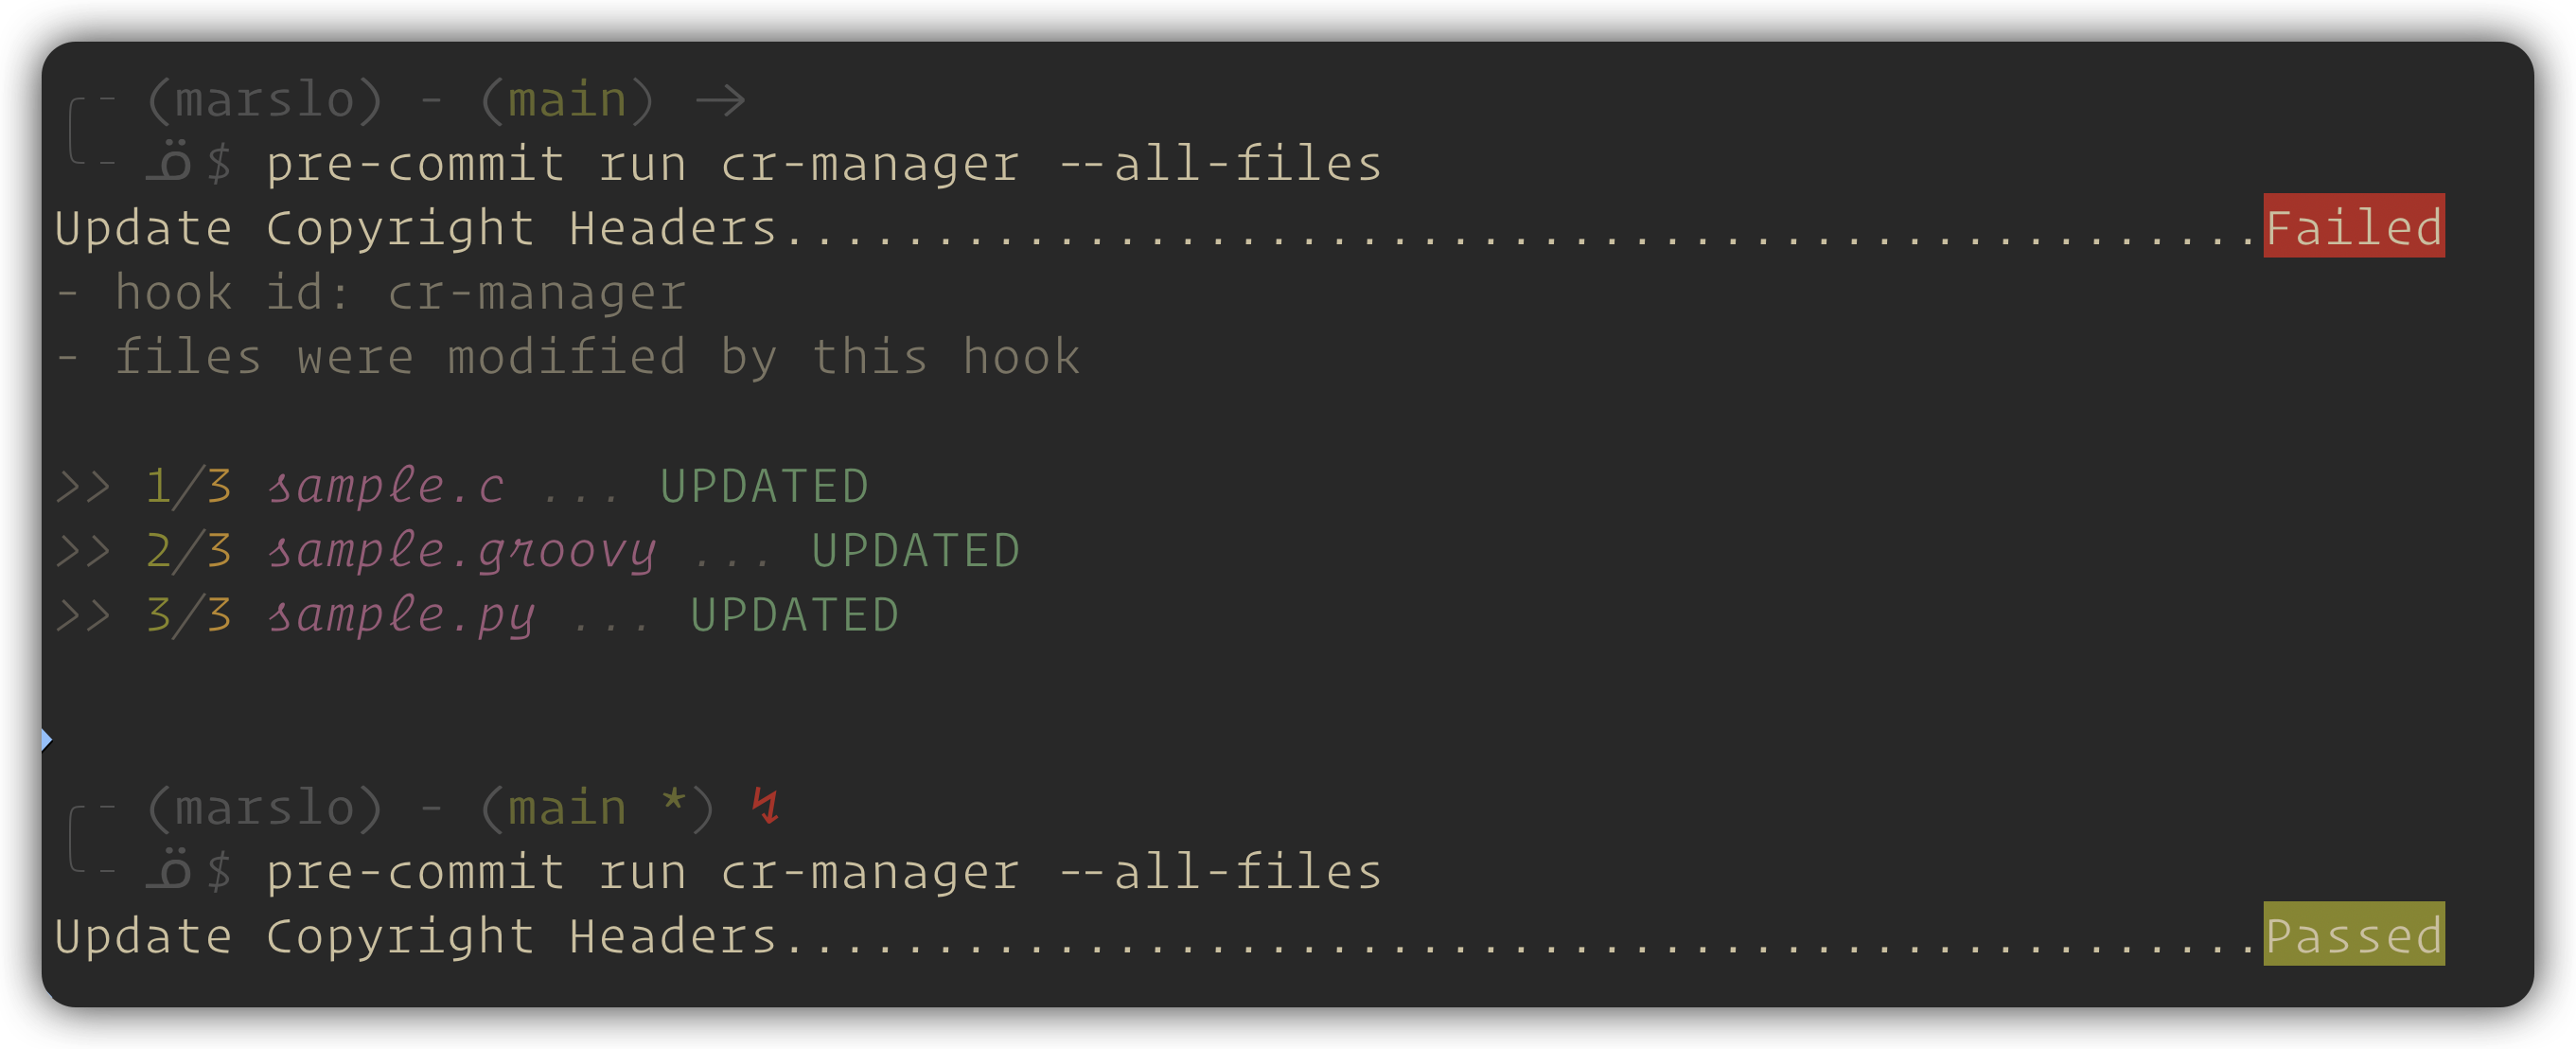
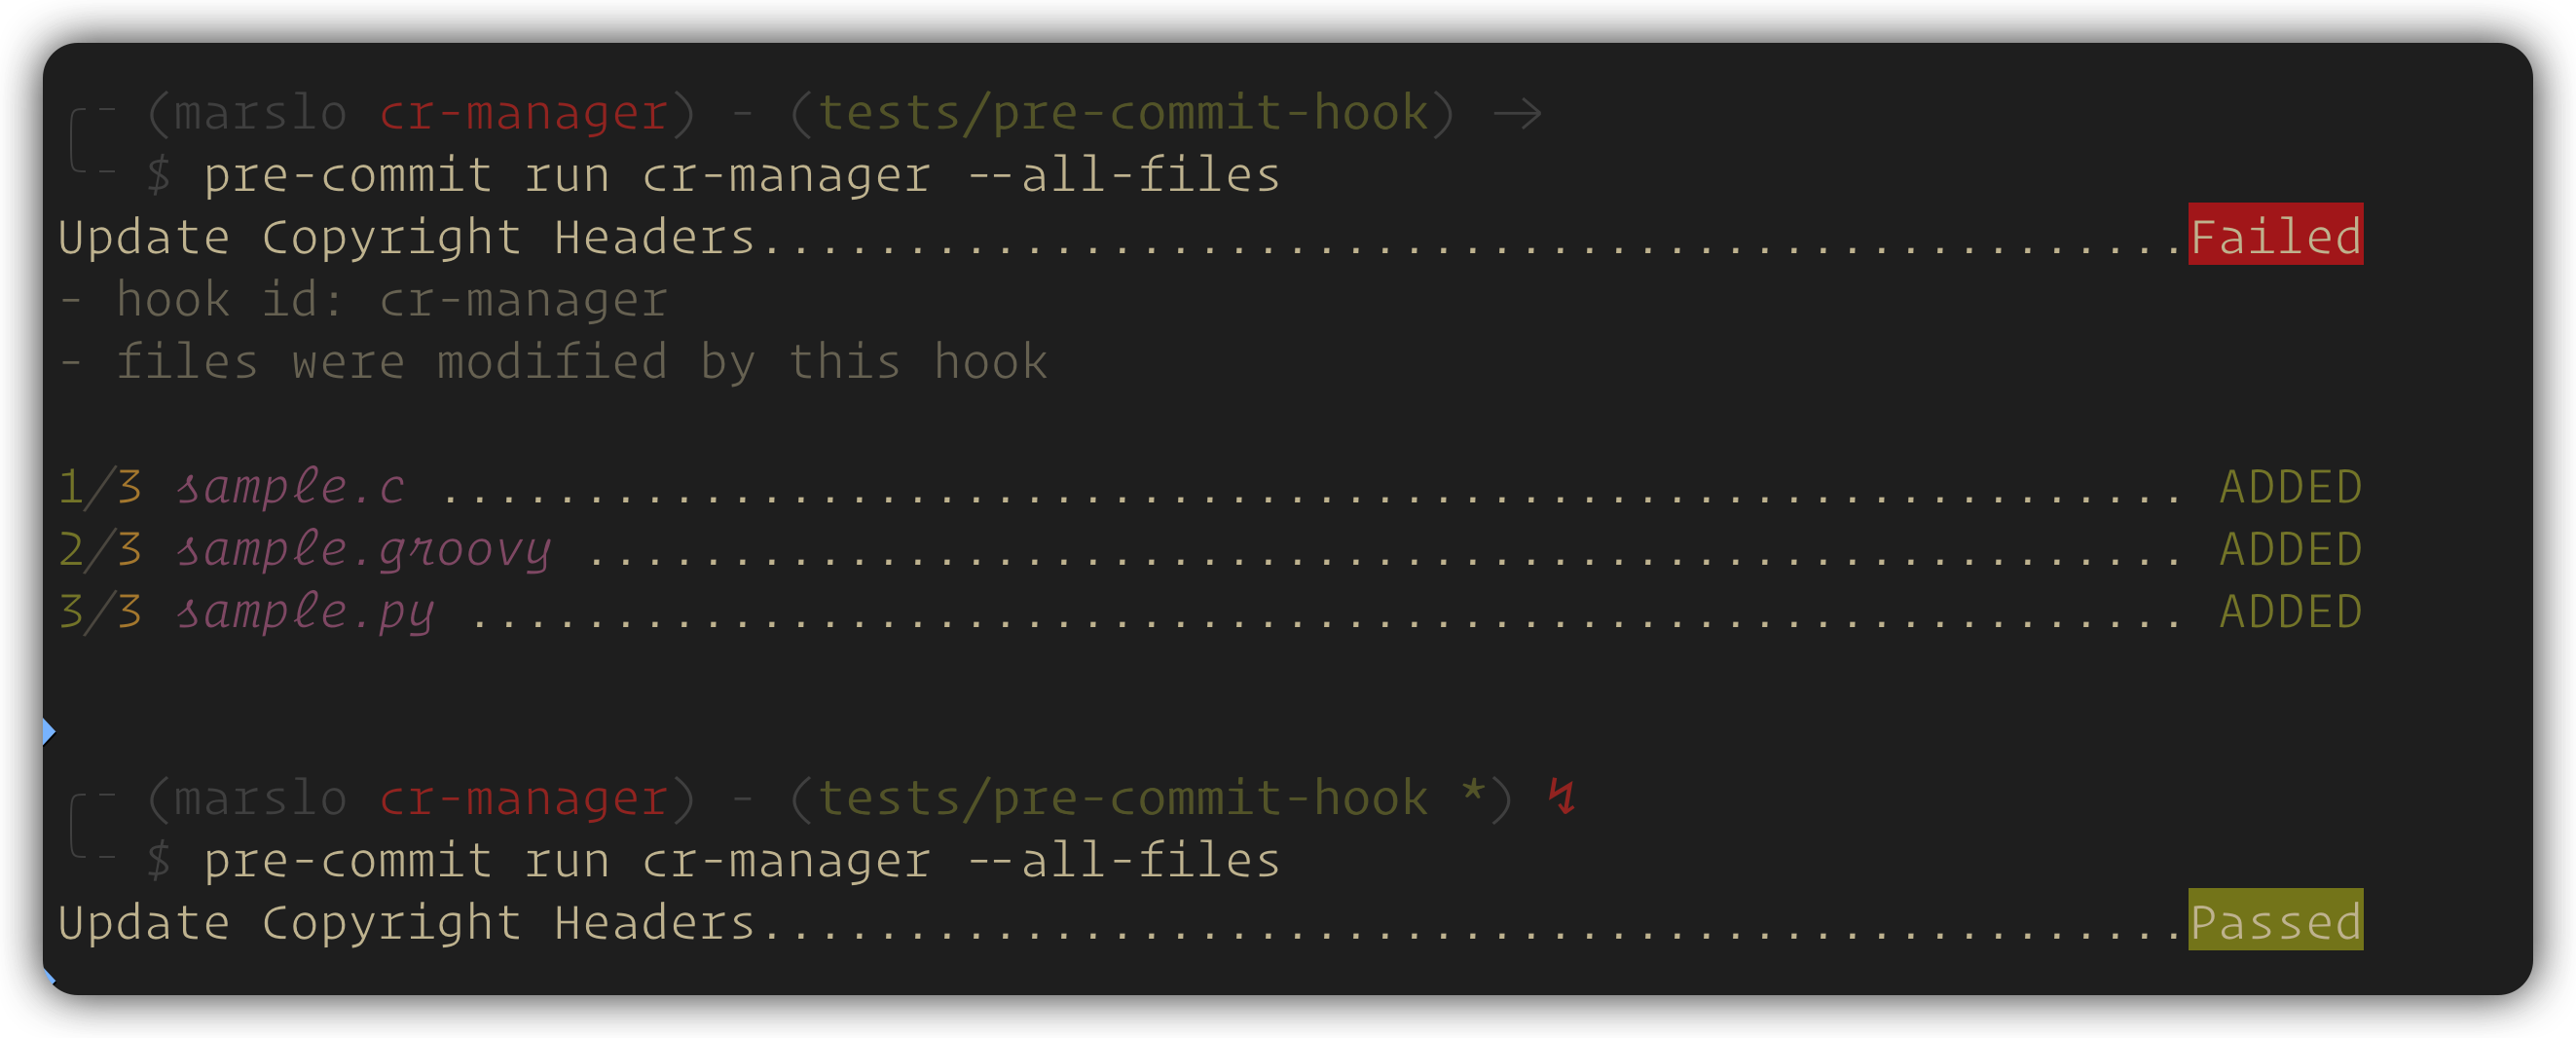
docs: add `Format Configuration` in readme; update screenshots

diff --git a/README.md b/README.md
@@ -1,10 +1,18 @@
-[![pre-commit.ci status](https://results.pre-commit.ci/badge/github/marslo/cr-manager/main.svg)](https://results.pre-commit.ci/latest/github/marslo/cr-manager/main) [![publish to PyPI](https://github.com/marslo/cr-manager/actions/workflows/publish.yml/badge.svg)](https://github.com/marslo/cr-manager/actions/workflows/publish.yml) [![semantic-release](https://github.com/marslo/cr-manager/actions/workflows/semantic-release.yml/badge.svg?branch=main)](https://github.com/marslo/cr-manager/actions/workflows/semantic-release.yml)
-
----
-
 # cr-manager -- the Copyright Header Manager
 
 A tool to automatically **add**, **update**, or **delete** multi-format copyright headers in source files.
+
+---
+
+[![GitHub Release](https://img.shields.io/github/v/release/marslo/cr-manager?logo=github)](https://github.com/marslo/cr-manager/releases/latest)
+[![GitHub Downloads](https://img.shields.io/github/downloads/marslo/cr-manager/total?logo=github)](https://github.com/marslo/cr-manager/releases/latest)
+![Python](https://img.shields.io/badge/language-python-c7f484?logo=python&logoColor=white)
+[![PyPI version](https://img.shields.io/pypi/v/cr-manager?logo=pypi)](https://pypi.org/project/cr-manager/)
+[![Install with pipx](https://img.shields.io/badge/install%20with-pipx-4B8BBE?logo=python&logoColor=white)](https://pypi.org/project/cr-manager/)
+[![Linux](https://img.shields.io/badge/Linux-FCC624?logo=linux&logoColor=black)](https://github.com/marslo/cr-manager/releases/latest)
+[![macOS](https://img.shields.io/badge/macOS-000000?logo=apple&logoColor=white)](https://github.com/marslo/cr-manager/releases/latest)
+[![Windows](https://img.shields.io/badge/Windows-0078D6?logo=Windows&logoColor=white)](https://github.com/marslo/cr-manager/releases/latest)
+![License](https://img.shields.io/badge/License-MIT-yellow?logo=opensourceinitiative&logoColor=white)
 
 ---
 
@@ -26,6 +34,11 @@ A tool to automatically **add**, **update**, or **delete** multi-format copyrigh
   - [Update Existing Copyright Headers](#update-existing-copyright-headers)
   - [Delete Existing Copyright Headers](#delete-existing-copyright-headers)
   - [Debug Mode](#debug-mode)
+- [Format Configuration](#format-configuration)
+  - [Config Fields](#config-fields)
+  - [Format Modes](#format-modes)
+  - [Modifying an Existing Format](#modifying-an-existing-format)
+  - [Adding a New Format](#adding-a-new-format)
 - [Help Message](#help-message)
 
 ---
@@ -115,8 +128,8 @@ A tool to automatically **add**, **update**, or **delete** multi-format copyrigh
 
 > [!TIP]
 > automatically detect the OS and install bash completion to the appropriate directory:
-> - macos: $(brew --prefix)/etc/bash_completion.d → $XDG_DATA_HOME/.local/share →  ~/.bash_completion.d
-> - linux: $XDG_DATA_HOME/.local/share → ~/.bash_completion.d → /usr/share/bash-completion/completions → /etc/bash_completion.d
+> - macos: `$(brew --prefix)/etc/bash_completion.d` → `$XDG_DATA_HOME/.local/share` →  `~/.bash_completion.d`
+> - linux: `$XDG_DATA_HOME/.local/share` → `~/.bash_completion.d` → `/usr/share/bash-completion/completions` → `/etc/bash_completion.d`
 
 ```bash
 # macos
@@ -308,6 +321,8 @@ $ cr-manager --filetype cpp
 >   $ pre-commit install --install-hooks
 >   ```
 
+![git commit with pre-commit hook](./screenshots/git-pre-commit-hook.png)
+
 ## Running Manually
 
 > [!TIP]
@@ -397,6 +412,92 @@ $ cr-manager --update --debug /path/to/file
 # *delete* without modifying files
 $ cr-manager --delete --debug /path/to/file
 ```
+
+---
+
+# Format Configuration
+
+All comment-style definitions live in [`cli/libs/formats.toml`](./cli/libs/formats.toml) — **no hardcoded formats in the source code**. The engine loads this file at startup and builds every format automatically, so adding or tweaking a style never requires code changes.
+
+## Config Fields
+
+| FIELD           | DESCRIPTION                                                          |
+| --------------- | -------------------------------------------------------------------- |
+| `start_line`    | Opening wrapper line (e.g. `/**`). Empty for line-comment formats.   |
+| `end_line`      | Closing wrapper line (e.g. `**/`). Empty for line-comment formats.   |
+| `comment`       | Core comment marker for detection (e.g. `#`, `*`).                   |
+| `content_left`  | Left delimiter of each content line (e.g. `# `, ` * `).              |
+| `content_right` | Right delimiter of each content line (e.g. ` #`, ` *`, or empty).    |
+| `box_left`      | Left side of the border line (`simple_format = false` only).         |
+| `box_right`     | Right side of the border line (`simple_format = false` only).        |
+| `box_char`      | Repeated character forming the border (e.g. `=`, `*`).               |
+| `simple_format` | `true` → no border box; `false` → bordered with `box_char` framing.  |
+
+## Format Modes
+
+There are two rendering modes controlled by `simple_format`:
+
+**Bordered** (`simple_format = false`) — content is framed between `box_char` border lines:
+
+```
+# ============================================================================ #   ← border
+# Copyright © 2026 marslo                                                      #   ← content
+# ============================================================================ #   ← border
+```
+
+**Simple** (`simple_format = true`) — content lines only, no border:
+
+```
+/**                           ← start_line
+ * Copyright © 2026 marslo    ← content
+ */                           ← end_line
+```
+
+## Modifying an Existing Format
+
+Edit the corresponding `[name.config]` table in `formats.toml`. For example, to switch the Python/Shell format from `=` borders to `*` borders:
+
+```toml
+# change these two fields in [hash_comment.config]
+box_char = "*"      # was "="
+```
+
+Then preview the result:
+
+```bash
+$ cr-manager --filetype python
+```
+
+## Adding a New Format
+
+Append a new section to `formats.toml` — no code changes required:
+
+```toml
+[xml_comment]
+filetypes = ["xml", "html", "xhtml"]
+suffixes  = [".xml", ".html", ".xhtml"]
+
+[xml_comment.config]
+start_line    = "<!--"
+end_line      = "-->"
+comment       = ""
+content_left  = "  "
+content_right = ""
+simple_format = true
+```
+
+Verify with:
+
+```bash
+$ cr-manager --filetype xml
+# <!--
+#   Copyright © 2026 marslo
+#   Licensed under the MIT License, Version 2.0
+# -->
+```
+
+The new format is immediately available for all action modes (`--add`, `--check`, `--update`, `--delete`).
+
 
 # Help Message
 

diff --git a/README.PYPI.md b/README.PYPI.md
@@ -8,6 +8,18 @@ A tool to automatically **add**, **update**, or **delete** multi-format copyrigh
 
 ---
 
+[![GitHub Release](https://img.shields.io/github/v/release/marslo/cr-manager?logo=github)](https://github.com/marslo/cr-manager/releases/latest)
+[![GitHub Downloads](https://img.shields.io/github/downloads/marslo/cr-manager/total?logo=github)](https://github.com/marslo/cr-manager/releases/latest)
+![Python](https://img.shields.io/badge/language-python-c7f484?logo=python&logoColor=white)
+[![PyPI version](https://img.shields.io/pypi/v/cr-manager?logo=pypi)](https://pypi.org/project/cr-manager/)
+[![Install with pipx](https://img.shields.io/badge/install%20with-pipx-4B8BBE?logo=python&logoColor=white)](https://pypi.org/project/cr-manager/)
+[![Linux](https://img.shields.io/badge/Linux-FCC624?logo=linux&logoColor=black)](https://github.com/marslo/cr-manager/releases/latest)
+[![macOS](https://img.shields.io/badge/macOS-000000?logo=apple&logoColor=white)](https://github.com/marslo/cr-manager/releases/latest)
+[![Windows](https://img.shields.io/badge/Windows-0078D6?logo=Windows&logoColor=white)](https://github.com/marslo/cr-manager/releases/latest)
+![License](https://img.shields.io/badge/License-MIT-yellow?logo=opensourceinitiative&logoColor=white)
+
+---
+
 - [Features](#features)
 - [How to Contribute](#how-to-contribute)
 - [Action Modes](#action-modes)
@@ -166,6 +178,8 @@ $ cr-manager --filetype cpp
 
 ## pre-commit hook
 
+![cr-manager pre-commit hook](https://github.com/marslo/cr-manager/raw/main/screenshots/git-pre-commit-hook.png)
+
 ```yaml
 # if `COPYRIGHT` file can be found in the root directory of this repository
 ---
@@ -235,8 +249,8 @@ $ curl -fsSL -o cr-manager https://github.com/marslo/cr-manager/releases/downloa
 ## bash completion
 
 > automatically detect the OS and install bash completion to the appropriate directory:
-> - macos: $(brew --prefix)/etc/bash_completion.d → $XDG_DATA_HOME/.local/share →  ~/.bash_completion.d
-> - linux: $XDG_DATA_HOME/.local/share → ~/.bash_completion.d → /usr/share/bash-completion/completions → /etc/bash_completion.d
+> - macos: `$(brew --prefix)/etc/bash_completion.d` → `$XDG_DATA_HOME/.local/share` →  `~/.bash_completion.d`
+> - linux: `$XDG_DATA_HOME/.local/share` → `~/.bash_completion.d` → `/usr/share/bash-completion/completions` → `/etc/bash_completion.d`
 
 ```bash
 # macos